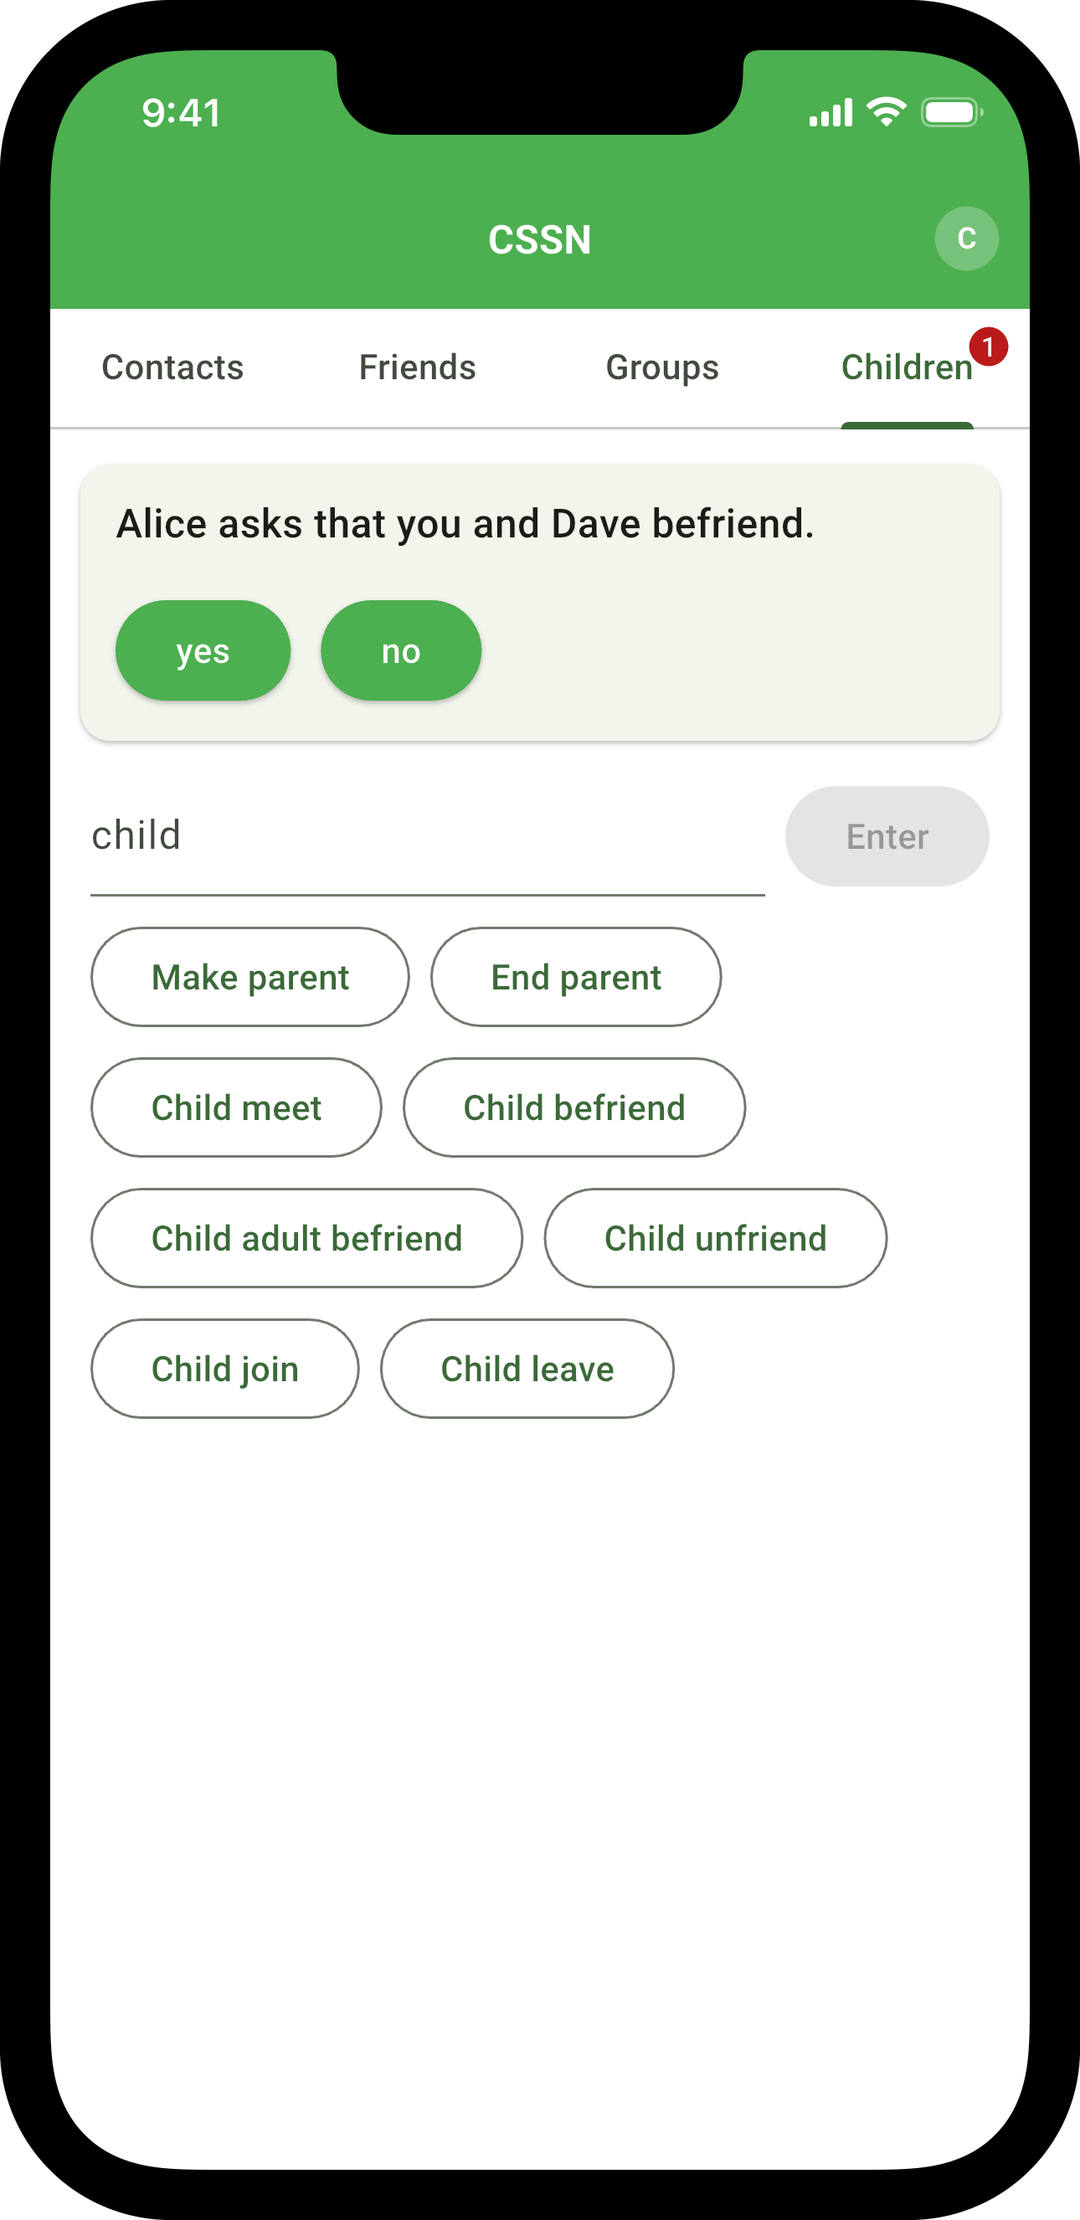
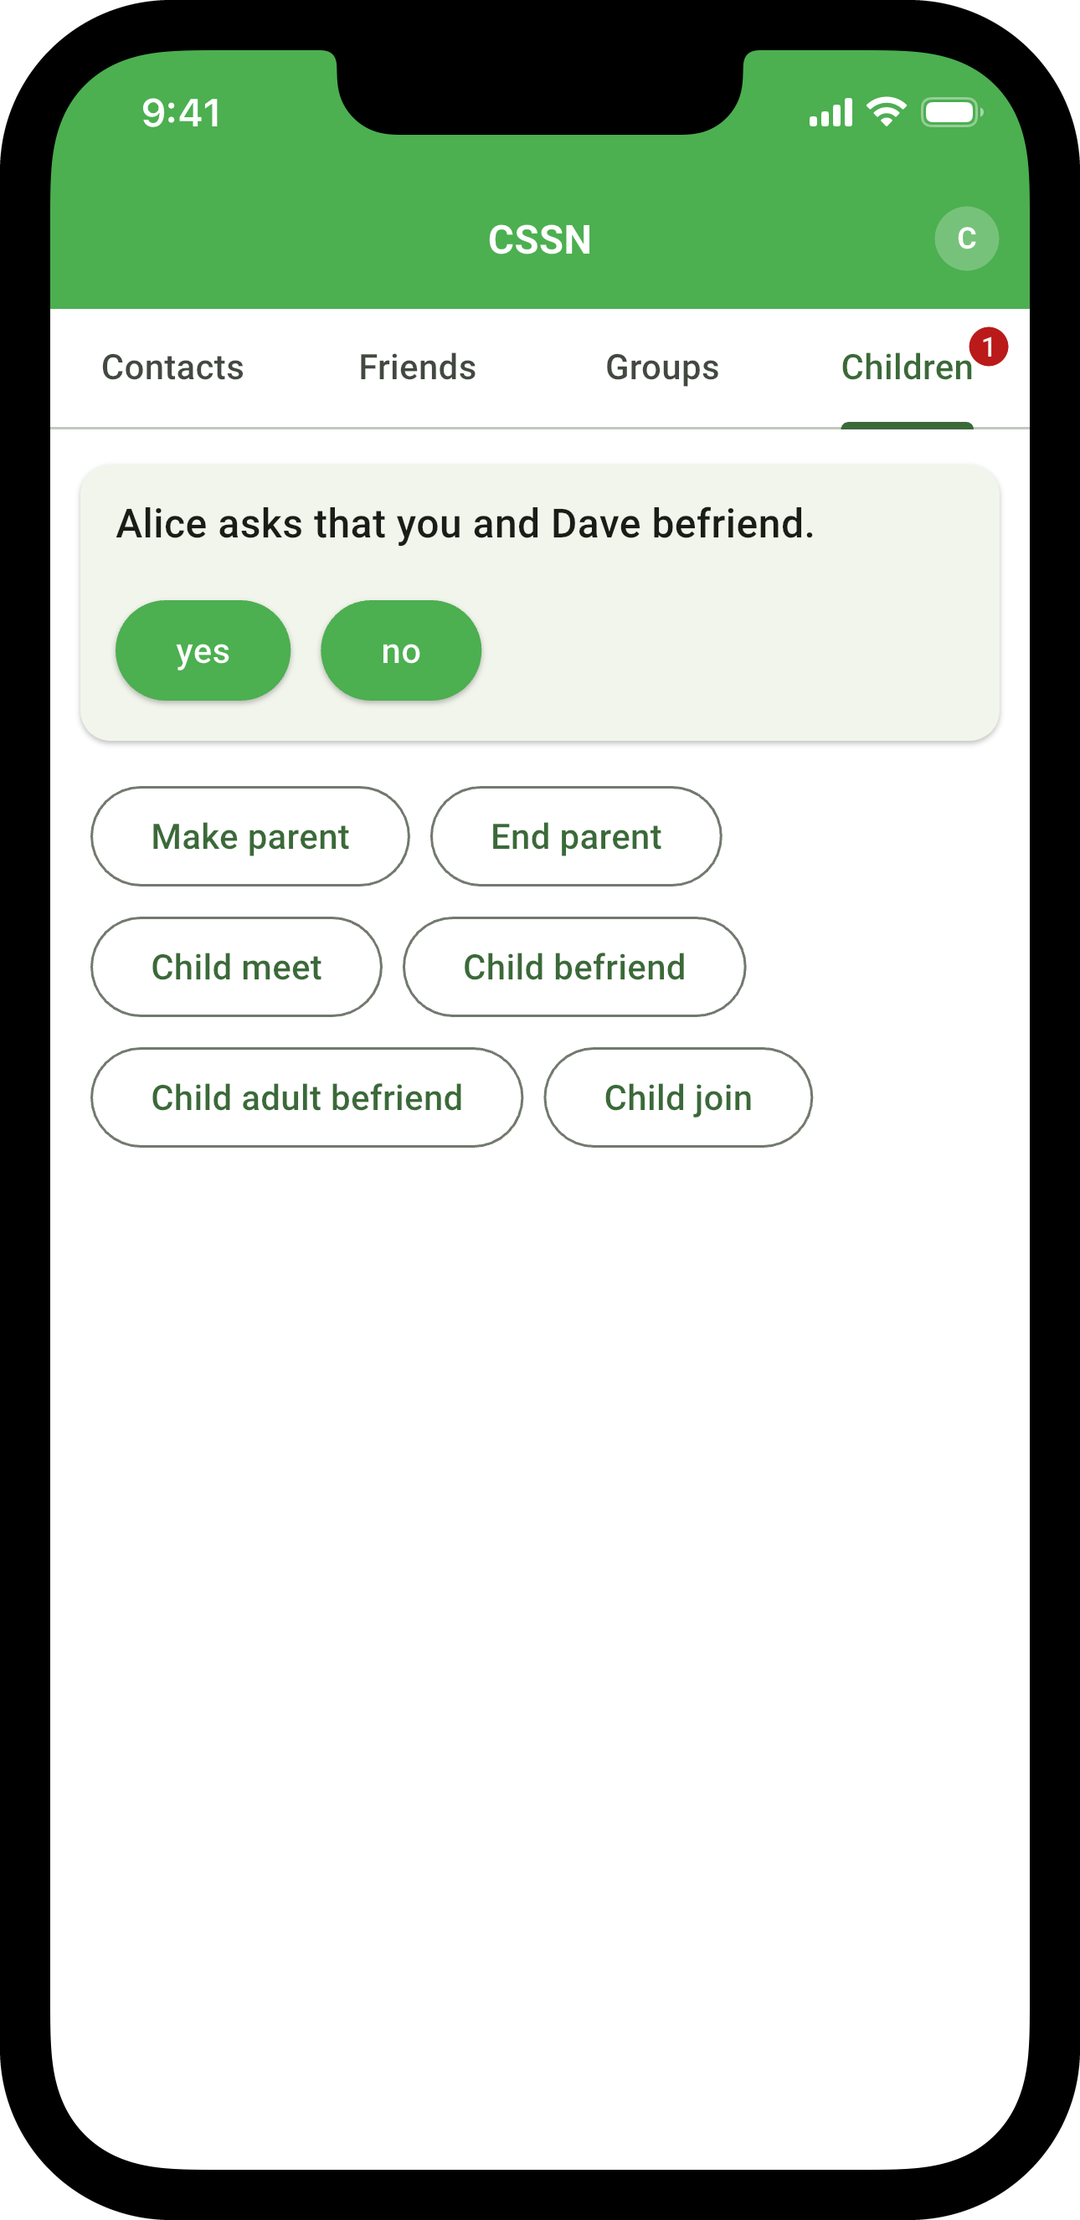
CSSN's screen 4 re-taken on the iOS Simulator: a child shown no Enter, Child unfriend, Child leave or Child close (vGLP 897d1ce, Section 6.2); README

Changed region(s): [[0.0917, 0.373, 0.7639, 0.6216], [0.7333, 0.3419, 0.9167, 0.4041]]

diff --git a/programs/cssn/figures/README.md b/programs/cssn/figures/README.md
@@ -29,6 +29,6 @@ The script plays on the simulator the scenario of `glp_multiagent/test/apps_scre
 | `cssn-app-1.png` | (1) Alice's Children tab, after she and Bob meet and befriend: Enter with its field child; the buttons of the acts that name two or more, Make parent, End parent, Child meet (once, for child_meet and child_meet_2), Child befriend, Child adult befriend, Child unfriend, Child join (once) and Child leave; and Carol, her child, with Of age, Retire and Child close, the acts that name Carol alone and require parenting of her at Alice's role.  Re-taken on the iOS Simulator on branch Draw-377, 2026-10-24.  Dave, whom Bob's agent introduced to hers, is on no tab, her state naming him in no atom; he is offered where she picks a person into a place. |
 | `cssn-app-2.png` | (2) The same tab after Carol and Dave meet, as Alice composes her request: Child befriend open at the top, Dave picked into the second child, Carol into the first from her Children and Bob into the other parent from her Friends, each place named Peer, and the button Child befriend, which proposes `child_befriend(carol, dave, alice, bob)`.  Re-taken on the iOS Simulator on branch Draw-377, 2026-10-24. |
 | `cssn-app-3.png` | (3) Bob's Children tab, badged: "Alice asks that Carol and your child Dave befriend.", yes and no at its top; under it Enter, the buttons of the acts that name two or more, and Dave, his child, with Of age, Retire and Child close.  Re-taken on branch Draw-377, 2026-10-24. |
-| `cssn-app-4.png` | (4) Carol's Children tab, badged: "Alice asks that you and Dave befriend.", yes and no at its top; the tab lists no child of hers.  Re-taken on branch Draw-377, 2026-10-24. |
+| `cssn-app-4.png` | (4) Carol's Children tab, badged: "Alice asks that you and Dave befriend.", yes and no at its top; under it the buttons of the acts whose own precondition at some guarding role her state meets, Make parent, End parent, Child meet, Child befriend, Child adult befriend and Child join, and no Enter, Child unfriend, Child leave or Child close, each forbidding child at its guarding roles (vGLP 897d1ce, Section 6.2); the tab lists no child of hers.  Re-taken on the iOS Simulator on branch Retake-2215, 2026-10-24; the other five screens did not change. |
 | `cssn-app-5.png` | (5) Carol's Friends while Dave is her friend: Dave with Unfriend and Message, and Alice, her parent and first friend, with Message alone, `unfriend(p?, q)` forbidding `creator(q)` at Carol's role and `message` requiring `friend(q)` there (CSSN.glp at 50ea651c).  Bob, whom Alice's agent introduced to hers at the level of the machines, is on no tab.  Re-taken on the iOS Simulator on branch Retake-2107, 2026-10-24. |
 | `cssn-app-6.png` | (6) Bob's Children tab after Carol ends her friendship with Dave: Enter and the buttons of the acts that name two or more, and Dave, his child, with Of age, Retire and Child close; Of age, CSSN's "[Of age]", proposes `of_age(bob, dave)` when tapped, Bob being Dave's creator; nobody is asked, Bob having made no other parent of Dave, and Dave then leaves the tab.  Re-taken on the iOS Simulator on branch Draw-377, 2026-10-24. |
